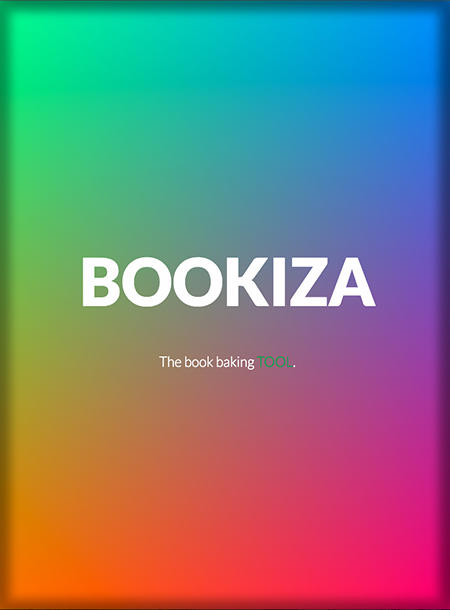
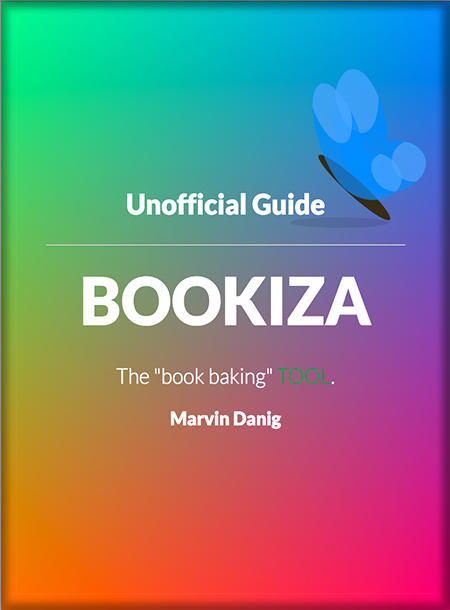
Choosing a font size that's unquestionable

Changed region(s): [[0.0, 0.0, 0.9956, 0.7164], [0.0, 0.5918, 1.0, 1.0], [0.0, 0.6852, 0.0311, 0.7164]]

diff --git a/manuscript/page-1/style.css b/manuscript/page-1/style.css
@@ -1,71 +1,259 @@
 body {
-  width: 100%;
-  overflow: hidden;
-  background: linear-gradient(cyan, transparent), linear-gradient(-45deg, magenta, transparent), linear-gradient(45deg, yellow, transparent);
-  background-blend-mode: multiply;
-  height: 100vh;
-  weight: 100vw;
-  background-repeat: no-repeat;
-  color: white;
+    width: 100%;
+    overflow: hidden;
+    background: linear-gradient(cyan, transparent), linear-gradient(-45deg, magenta, transparent), linear-gradient(45deg, yellow, transparent);
+    background-blend-mode: multiply;
+    height: 100vh;
+    weight: 100vw;
+    background-repeat: no-repeat;
+    color: white;
 }
 
 h1 {
-  color: white;
-  font-size: 14vw;
+    color: white;
+    font-size: 14vw;
 }
 
-
-.text--line {
-  font-size: 100%;
+h2 {
+    font-size: 6vw;
 }
 
-viewBox {
-  width:100vw;
+h3 {
+    font-size: 4vw;
 }
 
-svg {
-  width: 100%;
+.lifeform {
+    float: right;
 }
 
-.text-copy {
-  fill: none;
-  stroke: white;
-  stroke-dasharray: 7% 28%;
-  stroke-width: 3vw;
-  -webkit-animation: stroke-offset 20s infinite linear;
-          animation: stroke-offset 20s infinite linear;
-}
-.text-copy:nth-child(1) {
-  stroke: #360745;
-  stroke-dashoffset: 7%;
-}
-.text-copy:nth-child(2) {
-  stroke: #D61C59;
-  stroke-dashoffset: 14%;
-}
-.text-copy:nth-child(3) {
-  stroke: #E7D84B;
-  stroke-dashoffset: 21%;
-}
-.text-copy:nth-child(4) {
-  stroke: #EFEAC5;
-  stroke-dashoffset: 28%;
-}
-.text-copy:nth-child(5) {
-  stroke: #1B8798;
-  stroke-dashoffset: 35%;
+.butterfly {
+    -webkit-animation: hover 250ms cubic-bezier(0.48, 0.01, 0.54, 1) infinite;
+    animation: hover 250ms cubic-bezier(0.48, 0.01, 0.54, 1) infinite;
+    -webkit-animation-direction: alternate;
+    animation-direction: alternate;
+    -webkit-animation-fill-mode: reverse;
+    animation-fill-mode: reverse;
+    position: relative;
+    -webkit-transform-style: preserve-3d;
+    transform-style: preserve-3d;
+    -webkit-transform: rotateX(50deg) rotateY(20deg) rotateZ(-50deg) translateY(0px);
+    transform: rotateX(50deg) rotateY(20deg) rotateZ(-50deg) translateY(0px);
+    width: 6vw;
 }
 
-@-webkit-keyframes stroke-offset {
-  50% {
-    stroke-dashoffset: 35%;
-    stroke-dasharray: 0 87.5%;
-  }
+.butterfly::before {
+    background: #362c13;
+    border-radius: 50%;
+    content: '';
+    display: block;
+    height: 22vw;
+    left: 50%;
+    margin-left: -2vw;
+    outline: 1px solid transparent;
+    position: absolute;
+    top: -3vw;
+    -webkit-transform: rotatey(100deg);
+    transform: rotatey(100deg);
+    width: 4vw;
+    z-index: 2;
 }
 
-@keyframes stroke-offset {
-  50% {
-    stroke-dashoffset: 35%;
-    stroke-dasharray: 0 87.5%;
-  }
+.shadow {
+    -webkit-animation: shadow 250ms cubic-bezier(0.48, 0.01, 0.54, 1) infinite;
+    animation: shadow 250ms cubic-bezier(0.48, 0.01, 0.54, 1) infinite;
+    -webkit-animation-direction: alternate;
+    animation-direction: alternate;
+    -webkit-animation-fill-mode: reverse;
+    animation-fill-mode: reverse;
+    background: #000;
+    border-radius: 50%;
+    display: block;
+    height: 2vw;
+    opacity: 0.1;
+    -webkit-transform-origin: 50% 50%;
+    transform-origin: 50% 50%;
+    -webkit-transform: translateX(-40px) translateY(100px);
+    transform: translateX(-40px) translateY(100px);
+    width: 20vw;
+}
+
+.wing {
+    background: #888;
+    display: block;
+    opacity: 0.7;
+    outline: 1px solid transparent;
+    position: absolute;
+    top: 0;
+}
+
+.wing:first-child {
+    -webkit-animation: leftflap 250ms cubic-bezier(0.48, 0.01, 0.54, 1) infinite;
+    animation: leftflap 250ms cubic-bezier(0.48, 0.01, 0.54, 1) infinite;
+    -webkit-animation-direction: alternate;
+    animation-direction: alternate;
+    -webkit-animation-fill-mode: reverse;
+    animation-fill-mode: reverse;
+    height: 1px;
+    left: 0;
+    -webkit-transform: rotateY(-20deg);
+    transform: rotateY(-20deg);
+    -webkit-transform-origin: 700% 50%;
+    transform-origin: 700% 50%;
+    width: 1px;
+    z-index: 3;
+}
+
+.wing:last-child {
+    -webkit-animation: rightflap 250ms cubic-bezier(0.48, 0.01, 0.54, 1) infinite;
+    animation: rightflap 250ms cubic-bezier(0.48, 0.01, 0.54, 1) infinite;
+    -webkit-animation-direction: alternate;
+    animation-direction: alternate;
+    -webkit-animation-fill-mode: reverse;
+    animation-fill-mode: reverse;
+    right: 0;
+    -webkit-transform: rotateY(200deg);
+    transform: rotateY(200deg);
+    z-index: 1;
+}
+
+.wing .bit {
+    background: dodgerblue;
+}
+
+.wing .bit::after {
+    background: #51a9ff;
+}
+
+.wing .bit,
+.wing .bit::after {
+    border-radius: 50%;
+    overflow: hidden;
+    position: absolute;
+    right: 0;
+    top: 0;
+    -webkit-transform-origin: 100% 50%;
+    transform-origin: 100% 50%;
+}
+
+.wing .bit:first-child {
+    height: 14vw;
+    text-align: center;
+    top: 3vw;
+    -webkit-transform: rotateZ(40deg);
+    transform: rotateZ(40deg);
+    width: 26vw;
+}
+
+.wing .bit:first-child::after {
+    content: '';
+    display: inline-block;
+    height: 12vw;
+    left: -6vw;
+    top: 1vw;
+    width: 20vw;
+}
+
+.wing .bit:last-child {
+    height: 11vw;
+    -webkit-transform: rotateZ(-40deg);
+    transform: rotateZ(-40deg);
+    width: 20vw;
+}
+
+.wing .bit:last-child::after {
+    content: '';
+    display: inline-block;
+    height: 9vw;
+    left: -24px;
+    top: 1vw;
+    width: 12vw;
+    z-index: 1;
+}
+
+@-webkit-keyframes hover {
+    0% {
+        -webkit-transform: rotateX(50deg) rotateY(20deg) rotateZ(-50deg) translateZ(0px);
+        transform: rotateX(50deg) rotateY(20deg) rotateZ(-50deg) translateZ(0px);
+    }
+    100% {
+        -webkit-transform: rotateX(50deg) rotateY(20deg) rotateZ(-50deg) translateZ(-3px);
+        transform: rotateX(50deg) rotateY(20deg) rotateZ(-50deg) translateZ(-3px);
+    }
+}
+
+@keyframes hover {
+    0% {
+        -webkit-transform: rotateX(50deg) rotateY(20deg) rotateZ(-50deg) translateZ(0px);
+        transform: rotateX(50deg) rotateY(20deg) rotateZ(-50deg) translateZ(0px);
+    }
+    100% {
+        -webkit-transform: rotateX(50deg) rotateY(20deg) rotateZ(-50deg) translateZ(-3px);
+        transform: rotateX(50deg) rotateY(20deg) rotateZ(-50deg) translateZ(-3px);
+    }
+}
+
+@-webkit-keyframes shadow {
+    0% {
+        -webkit-transform: translateX(-40px) translateY(100px) scale(1, 1);
+        transform: translateX(-40px) translateY(100px) scale(1, 1);
+    }
+    100% {
+        -webkit-transform: translateX(-40px) translateY(100px) scale(1.1, 1.1);
+        transform: translateX(-40px) translateY(100px) scale(1.1, 1.1);
+    }
+}
+
+@keyframes shadow {
+    0% {
+        -webkit-transform: translateX(-40px) translateY(100px) scale(1, 1);
+        transform: translateX(-40px) translateY(100px) scale(1, 1);
+    }
+    100% {
+        -webkit-transform: translateX(-40px) translateY(100px) scale(1.1, 1.1);
+        transform: translateX(-40px) translateY(100px) scale(1.1, 1.1);
+    }
+}
+
+@-webkit-keyframes leftflap {
+    0% {
+        -webkit-transform: rotateY(-20deg);
+        transform: rotateY(-20deg);
+    }
+    100% {
+        -webkit-transform: rotateY(90deg);
+        transform: rotateY(90deg);
+    }
+}
+
+@keyframes leftflap {
+    0% {
+        -webkit-transform: rotateY(-20deg);
+        transform: rotateY(-20deg);
+    }
+    100% {
+        -webkit-transform: rotateY(90deg);
+        transform: rotateY(90deg);
+    }
+}
+
+@-webkit-keyframes rightflap {
+    0% {
+        -webkit-transform: rotateY(200deg);
+        transform: rotateY(200deg);
+    }
+    100% {
+        -webkit-transform: rotateY(90deg);
+        transform: rotateY(90deg);
+    }
+}
+
+@keyframes rightflap {
+    0% {
+        -webkit-transform: rotateY(200deg);
+        transform: rotateY(200deg);
+    }
+    100% {
+        -webkit-transform: rotateY(90deg);
+        transform: rotateY(90deg);
+    }
 }

diff --git a/manuscript/page-1/body.html b/manuscript/page-1/body.html
@@ -1,23 +1,22 @@
 <div class="leaf flex">
     <div class="inner justify ">
-        <h3 class="center"> The </h3>
-        <svg viewBox="0 0 150 30">
-            <symbol id="s-text">
-                <text text-anchor="middle" x="50%" y="100%" class="text--line">
-                    Unofficial
-                </text>
-            </symbol>
-            <g class="g-ants">
-                <use xlink:href="#s-text" class="text-copy"></use>
-                <use xlink:href="#s-text" class="text-copy"></use>
-                <use xlink:href="#s-text" class="text-copy"></use>
-                <use xlink:href="#s-text" class="text-copy"></use>
-                <use xlink:href="#s-text" class="text-copy"></use>
-            </g>
-        </svg>
-        <h2 class="center"> Guide </h2>
+        <div class="lifeform">
+            <div class="butterfly">
+                <div class="wing">
+                    <div class="bit"></div>
+                    <div class="bit"></div>
+                </div>
+                <div class="wing">
+                    <div class="bit"></div>
+                    <div class="bit"></div>
+                </div>
+            </div>
+            <div class="shadow"></div>
+        </div>
+        <h2 class="center"> Unofficial Guide </h2>
+        <hr/>
         <h1>Bookiza </h1>
-        <p class="center"> A "book baking" <a href="http://bookiza.io">TOOL</a>.</p>
-        <h2 class="center"> Marvin Danig</h2>
+        <p class="center"> The "book baking" <a href="http://bookiza.io">TOOL</a>.</p>
+        <h3 class="center"> Marvin Danig</h3>
     </div>
 </div>

diff --git a/templates/template.css b/templates/template.css
@@ -1,7 +1,7 @@
-@import url(https://fonts.googleapis.com/css?family=Lato:300,900);
+@import url(//fonts.googleapis.com/css?family=Lato:300,900);
 
 html, body {
-  font-size: 3vw;
+  font-size: 4.55vw;
   color: #2f2f2f;
   background-color: #f9f7f1;
   font-family: 'Lato', serif;
@@ -18,7 +18,7 @@ h1 {
   font-size: 8vw;
   text-transform: uppercase;
   display: inline-block;
-  line-height: 1.5;
+  line-height: 1.2;
   margin: 1vw 0 2vw;
   padding: 0;
   color: #333;
